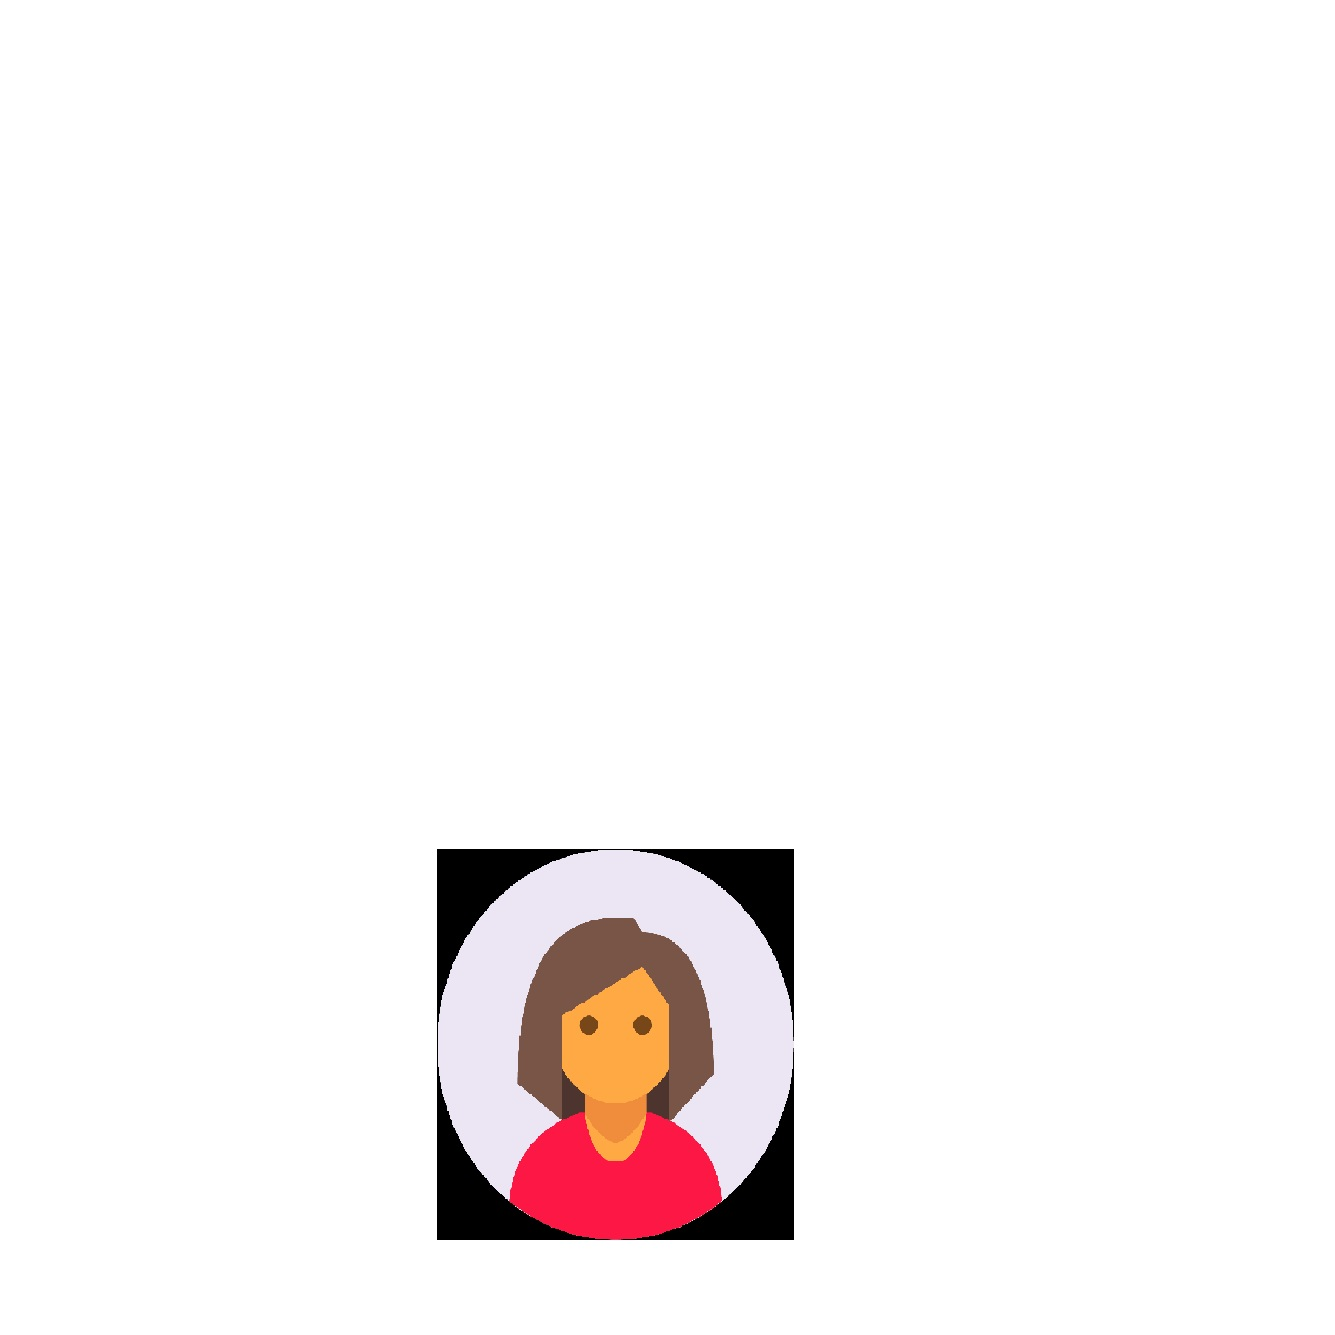
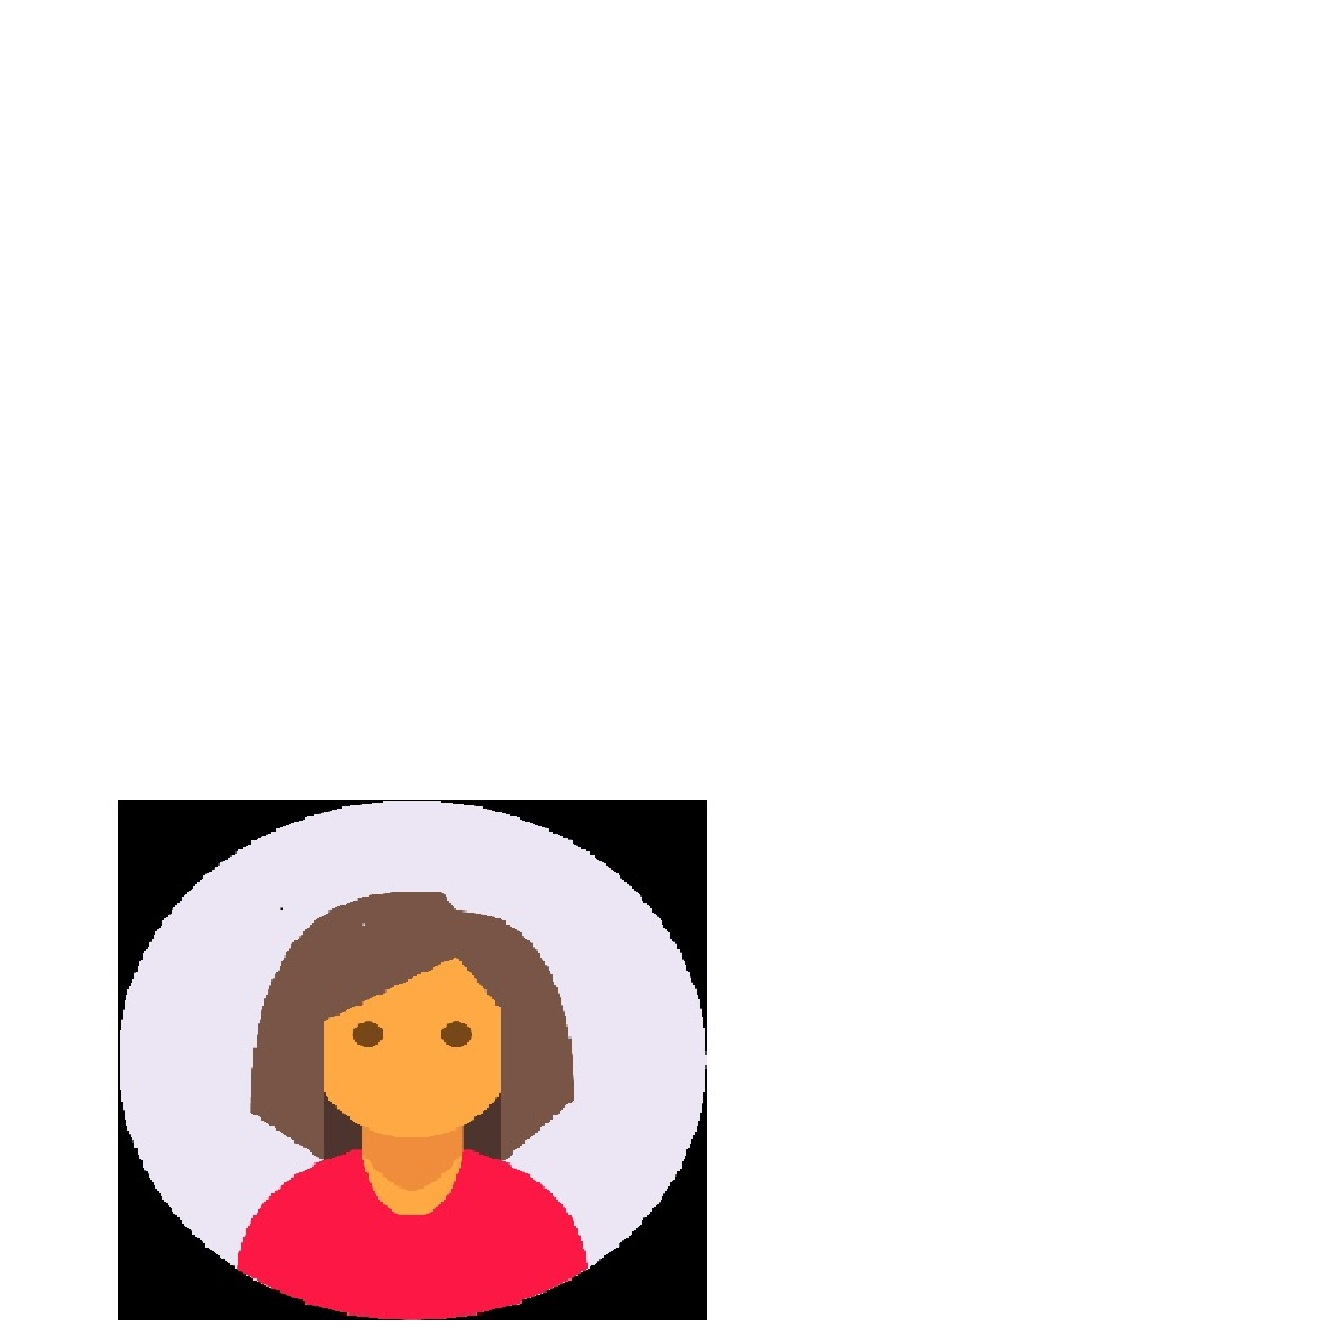
resume

Changed region(s): [[0.0614, 0.5835, 0.6142, 1.0]]

diff --git a/UMA/MyResume.html b/UMA/MyResume.html
@@ -1,25 +1,51 @@
 <!DOCTYPE html>
 <html><head>
       <style>
-            div {
-              height: 100px;
-              width: 500px;
-              background-color: powderblue;
-            }
+           div.gallery {
+  margin: 5px;
+  
+  float: left;
+  width: 40%;
+  height: 100%;
+  
+}
+
+
+
+.gallery {
+            max-width: 400%;
+            padding: 0 10px;
+            height: 540px;
+        }
+  
+        
+
+
             </style>
 </head>
+
+
 <body>
 
 
-<h1>RESUME</h1>
-<div  float="left">
-        
-         <img src="profile.jpg"  alt="Girl in a jacket" width="500" height="600"></p>
-      
+<h1><center>RESUME</center></h1>
+<div class="gallery">
+  
+    <img src="profile.jpg" alt="Profile" width="600" height="400">
          
       </div>
       
-     
+      <div >
+            <p><h3>OBJECTIVE</h3></p> 
+            <p><ul><li>To secure a challenging position in a reputable organization to expand my learnings, knowledge, and skills.</li>
+                <li>Secure a responsible career opportunity to fully utilize my training and skills, while making a significant contribution to the success of the company.
+                      </li></ul>
+                </p> 
+                <br>
+                <br>
+
+
+     </div>
 <p></p>
 </bodygit>
 </html>

diff --git a/UMA/Untitled-1.html b/UMA/Untitled-1.html
@@ -1,0 +1,19 @@
+<!DOCTYPE html>
+<html>
+<head>
+<style>
+div {
+  height: 200px;
+  width: 50%;
+  background-color: powderblue;
+}
+</style>
+</head>
+<body>
+
+<h2>Set the height and width of an element</h2>
+
+<div>This div element has a height of 200px and a width of 50%.</div>
+
+</body>
+</html>
